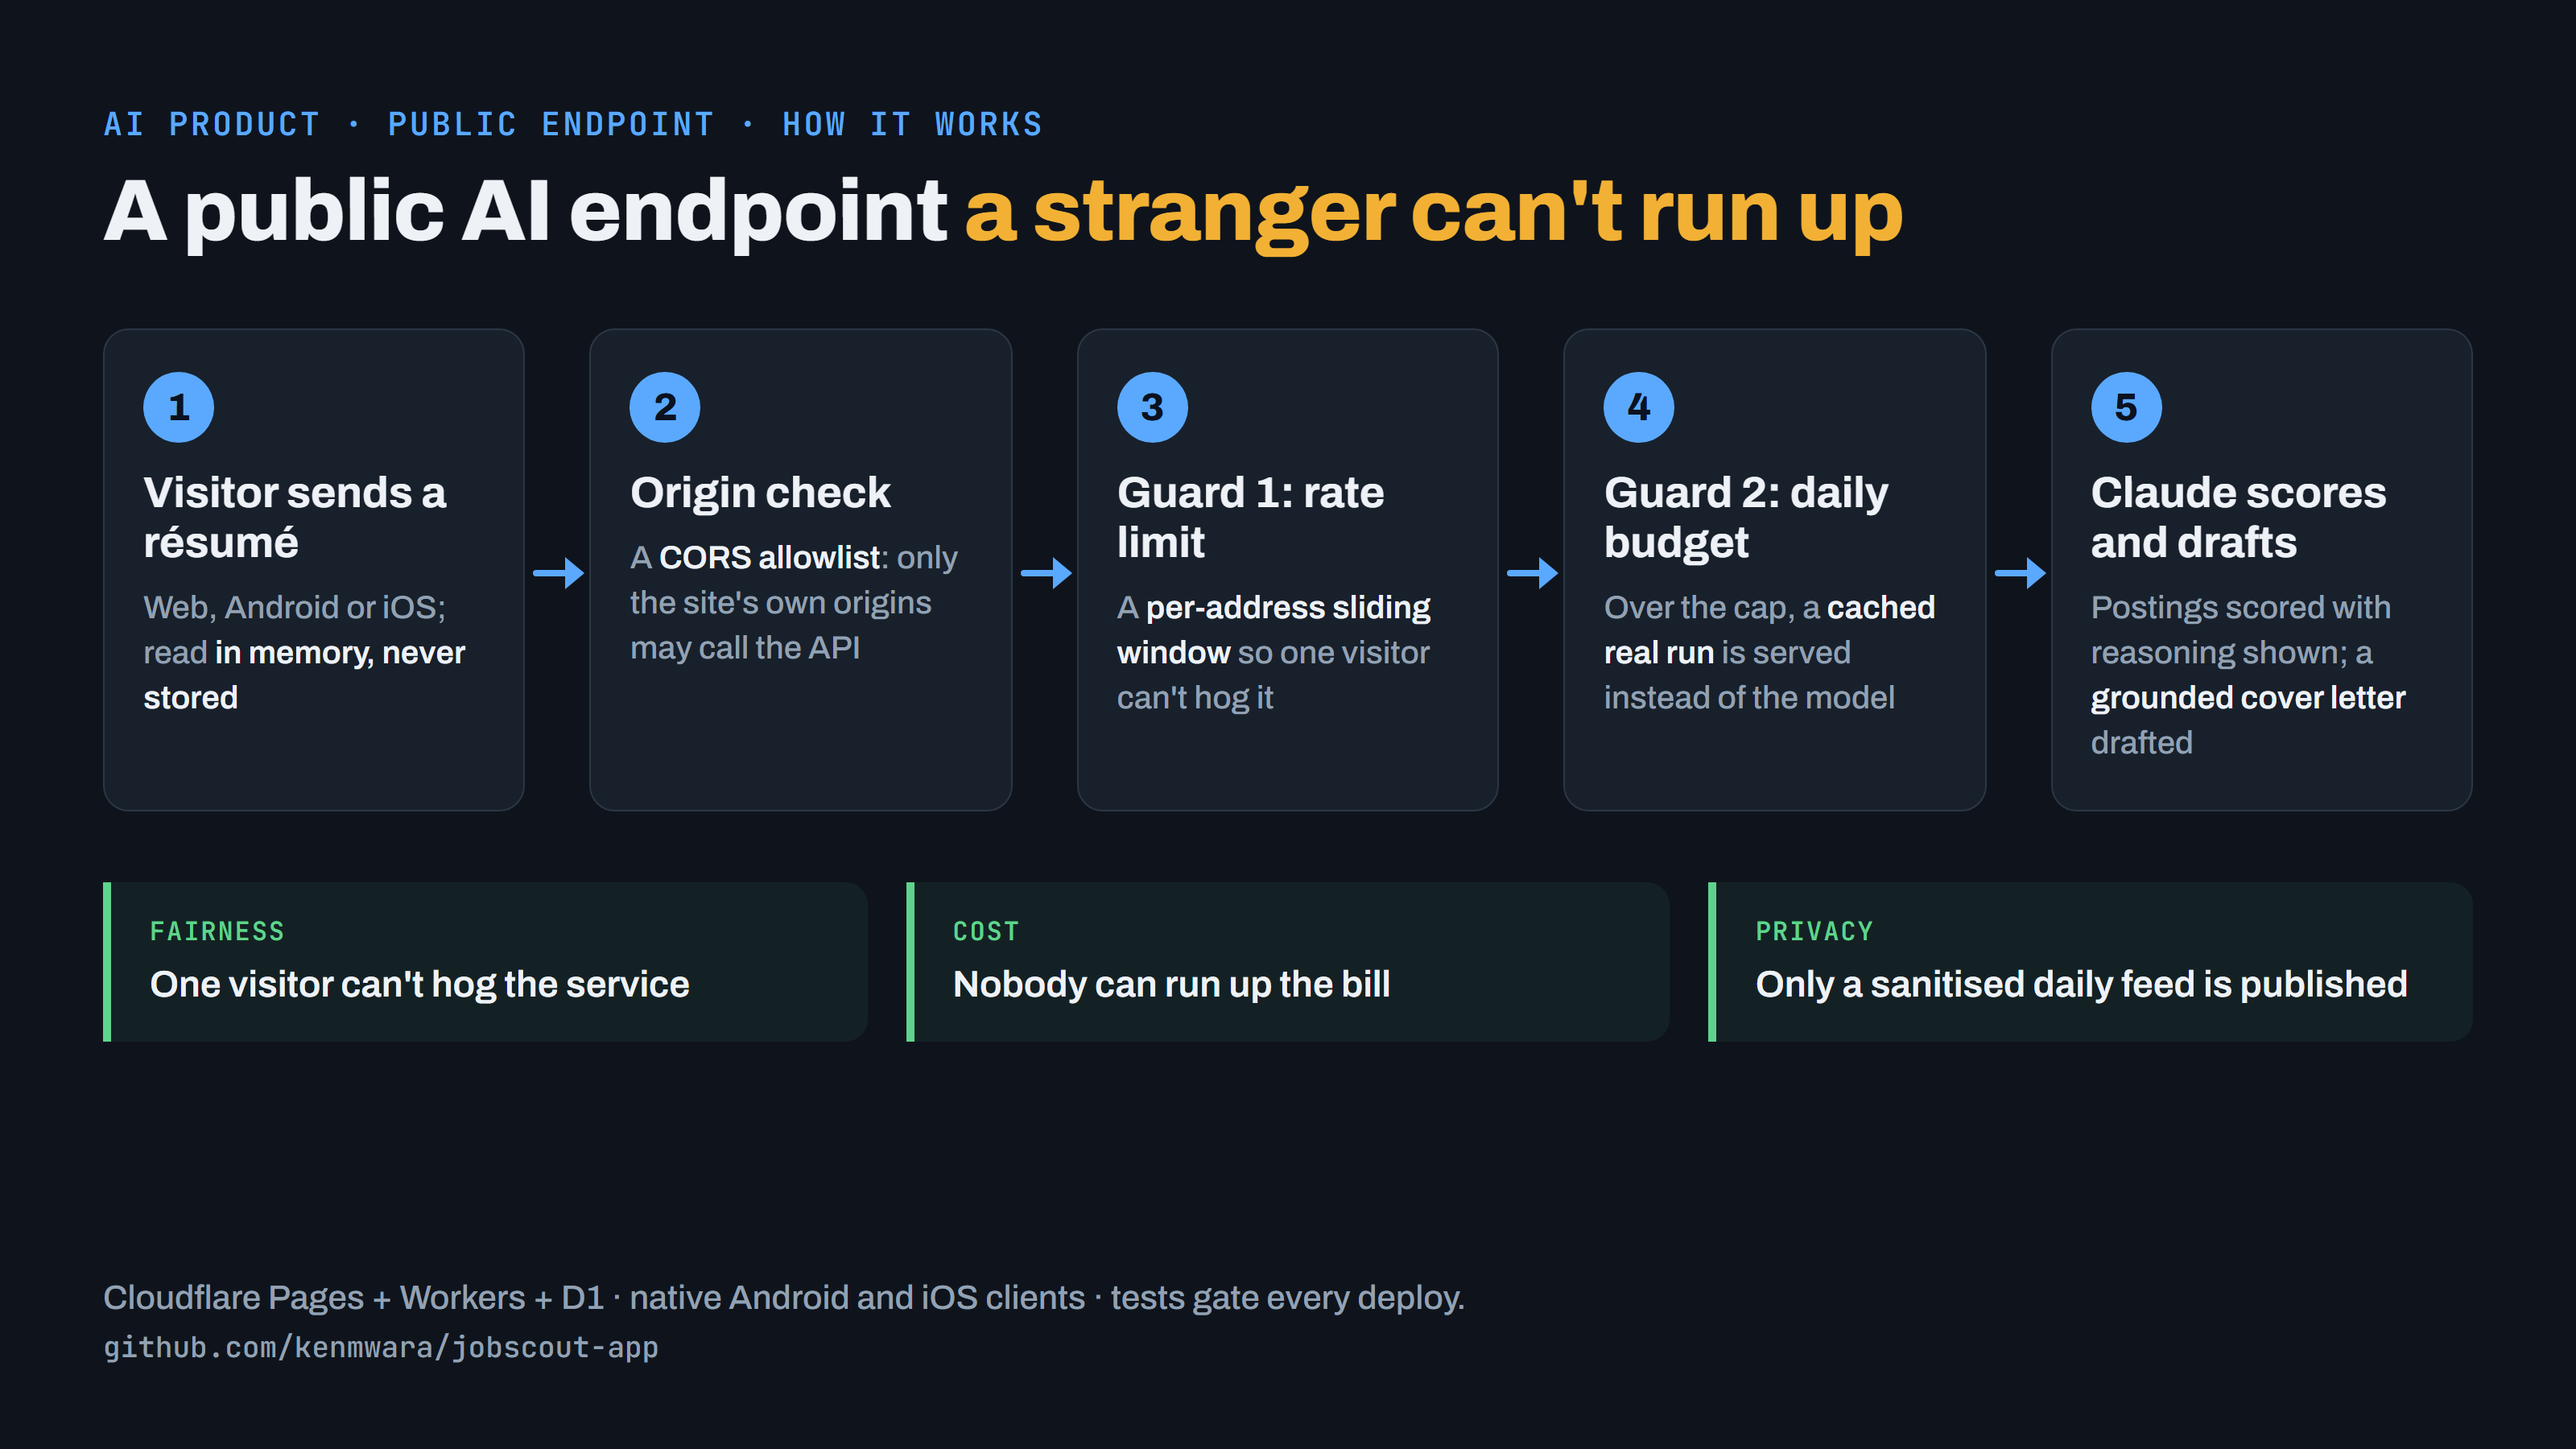
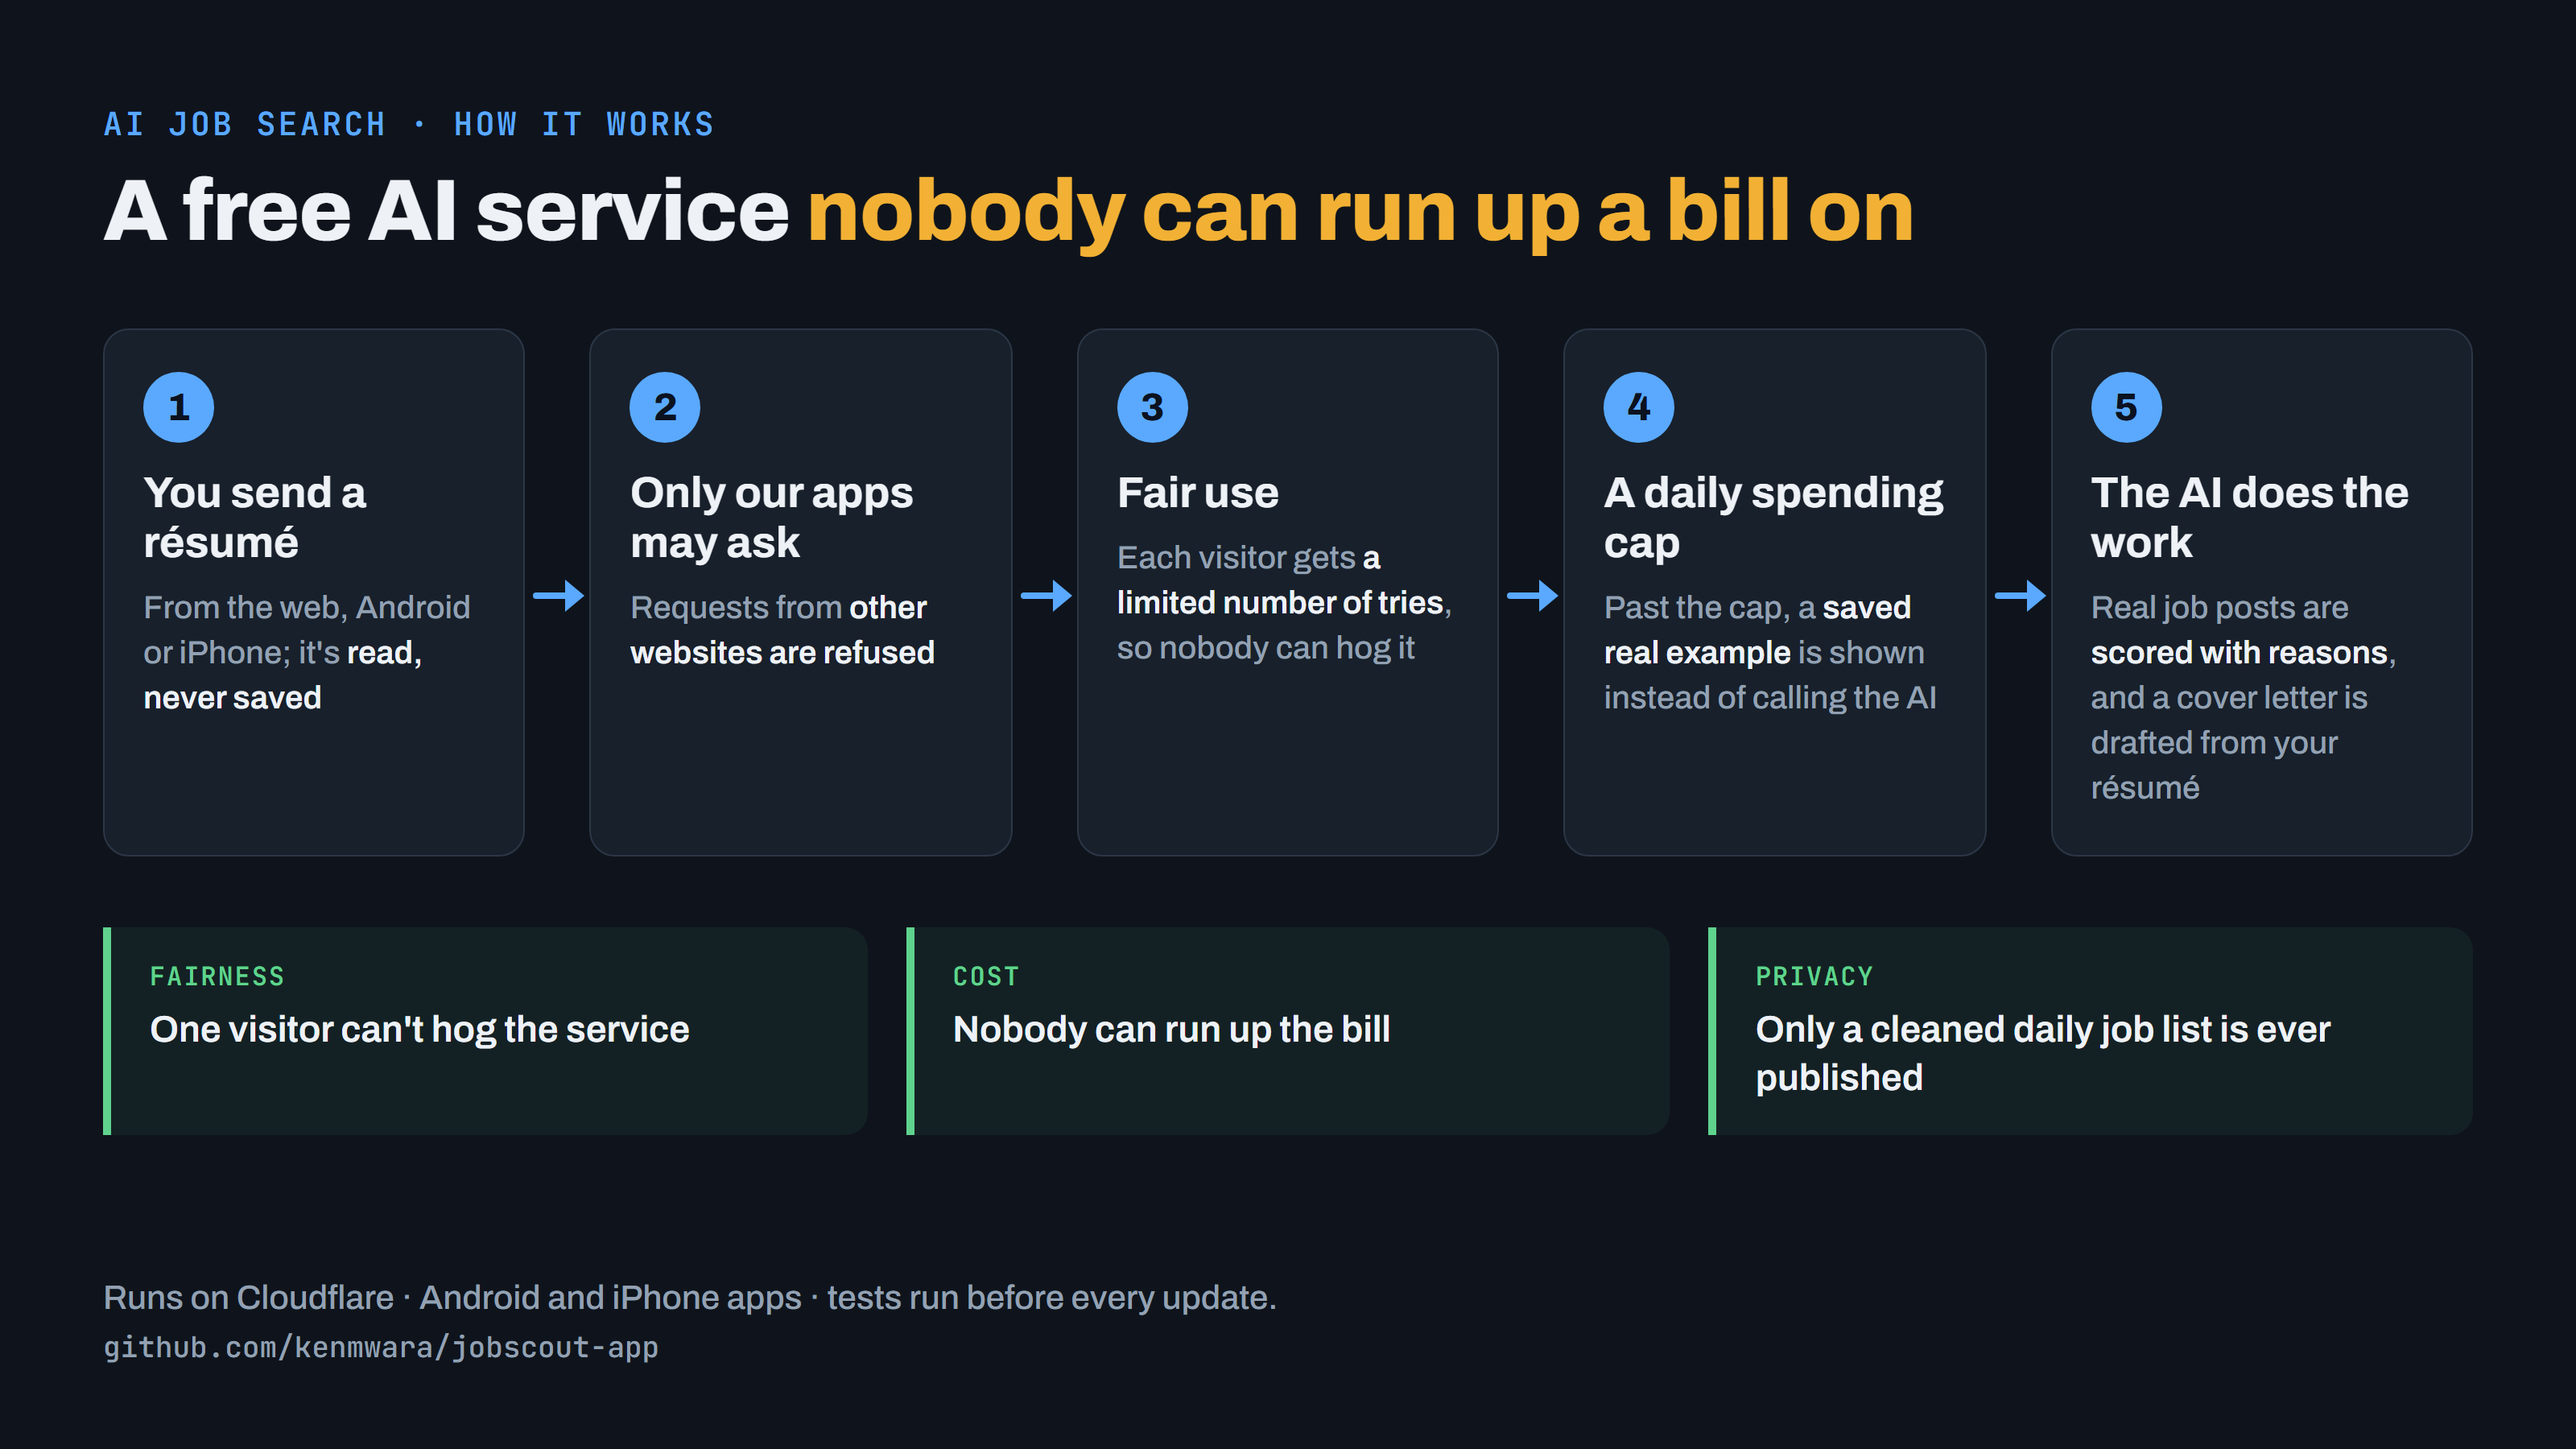
docs: diagrams and scorecards rewritten in plain English

diff --git a/README.md b/README.md
@@ -11,7 +11,7 @@ production since July 2026. The demo is not a mock: the postings are that
 pipeline's actual daily sweep, the eligibility verdicts are its production
 prefilter's own reasons, and every score and cover letter is a live Claude call.
 
-<img src="images/flow.png" width="100%" alt="Flow diagram in five steps. 1: Visitor sends a résumé; Web, Android or iOS; read in memory, never stored. 2: Origin check; A CORS allowlist: only the site's own origins may call the API. 3: Guard 1: rate limit; A per-address sliding window so one visitor can't hog it. 4: Guard 2: daily budget; Over the cap, a cached real run is served instead of the model. 5: Claude scores and drafts; Postings scored with reasoning shown; a grounded cover letter drafted. Guards: Fairness, one visitor can't hog the service; Cost, nobody can run up the bill; Privacy, only a sanitised daily feed is published.">
+<img src="images/flow.png" width="100%" alt="How it works, in five steps. 1. You send a résumé: From the web, Android or iPhone; it's read, never saved. 2. Only our apps may ask: Requests from other websites are refused. 3. Fair use: Each visitor gets a limited number of tries, so nobody can hog it. 4. A daily spending cap: Past the cap, a saved real example is shown instead of calling the AI. 5. The AI does the work: Real job posts are scored with reasons, and a cover letter is drafted from your résumé. Safeguards: Fairness: One visitor can't hog the service; Cost: Nobody can run up the bill; Privacy: Only a cleaned daily job list is ever published.">
 
 ## The 90-second tour
 
